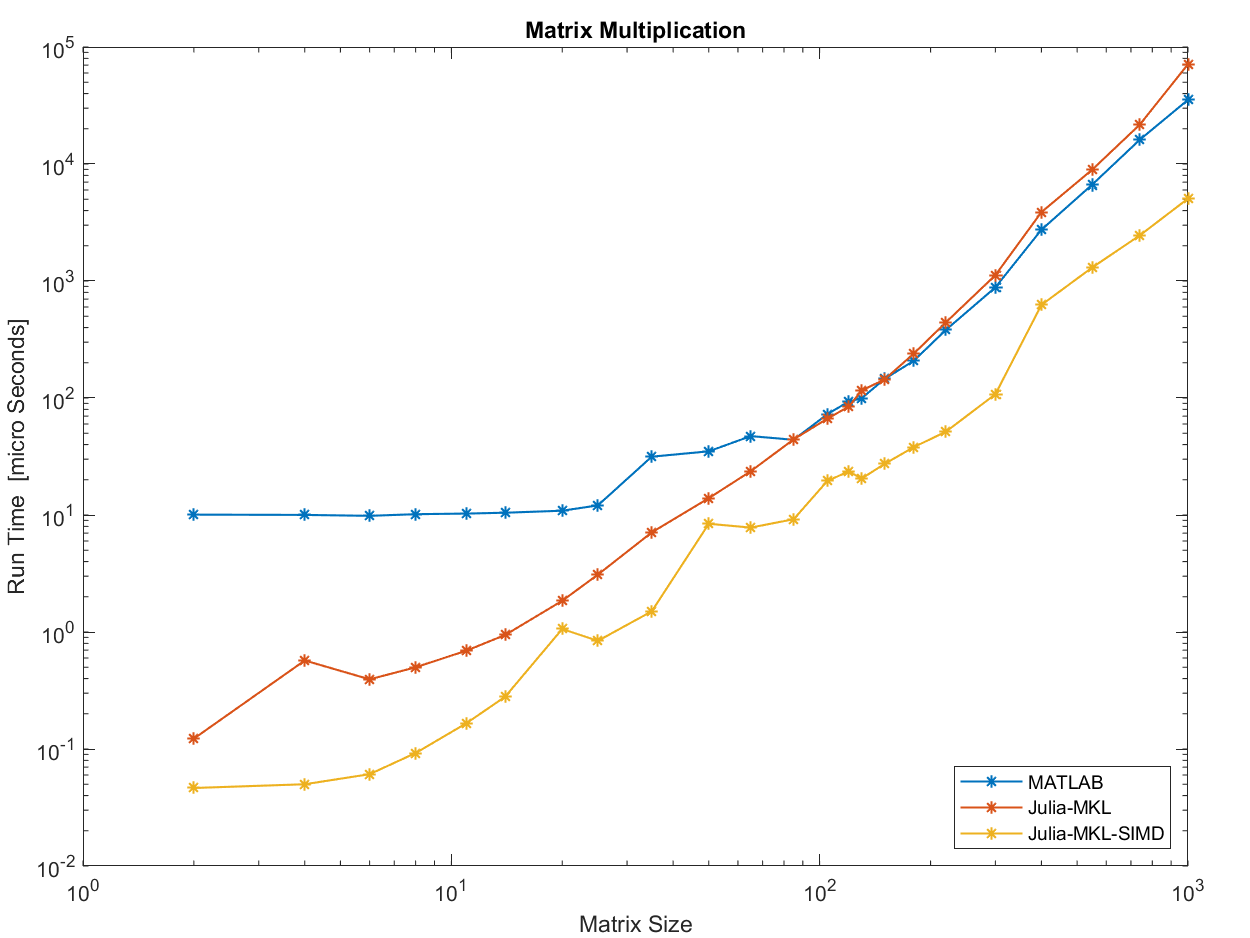
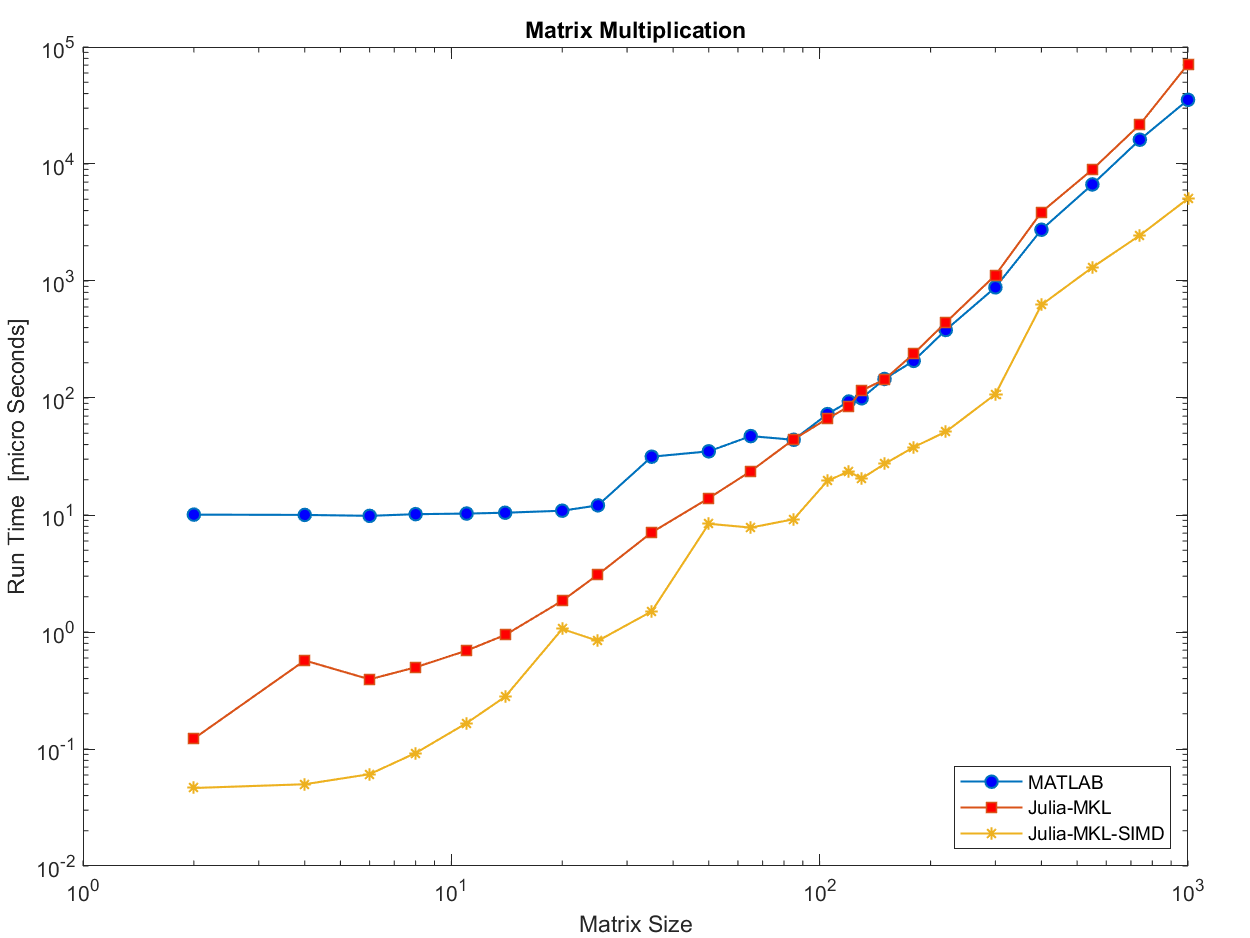
V 2.0

diff --git a/AnalyszeRunTimeResults.m b/AnalyszeRunTimeResults.m
@@ -32,11 +32,11 @@ for ii = 1:size(mRunTimeMatlab,1)
     hFigure     = figure('Position', figPosMedium);
     hAxes       = axes();
 
-    loglog(vMatrixSizeMatlab,mRunTimeMatlab(ii,:),'-*','LineWidth',lineWidthThin); hold on;
-    loglog(vMatrixSizeJuliamkl,mRunTimeJuliamkl(ii,:),'-*','LineWidth',lineWidthThin); hold on;
+    loglog(vMatrixSizeMatlab,mRunTimeMatlab(ii,:),'-o','LineWidth',lineWidthThin,'MarkerFaceColor','b'); hold on;
+    loglog(vMatrixSizeJuliamkl,mRunTimeJuliamkl(ii,:),'-s','LineWidth',lineWidthThin,'MarkerFaceColor','r'); hold on;
     plotJuliaSIMD=ismember( sFunNameMatlab{ii}, sFunNameJuliamklSIMD ); % if 1 will plot JuliaSIMD
     if any(plotJuliaSIMD)
-        h=loglog(vMatrixSizeJuliamklSIMD,mRunTimeJuliamklSIMD(plotJuliaSIMD,:),'-*','LineWidth',lineWidthThin);
+        h=loglog(vMatrixSizeJuliamklSIMD,mRunTimeJuliamklSIMD(plotJuliaSIMD,:),'-*','LineWidth',lineWidthThin,'MarkerFaceColor','y');
         legend('MATLAB','Julia-MKL','Julia-MKL-SIMD','Location','southeast')
     else
         legend('MATLAB','Julia-MKL','Location','southeast')
